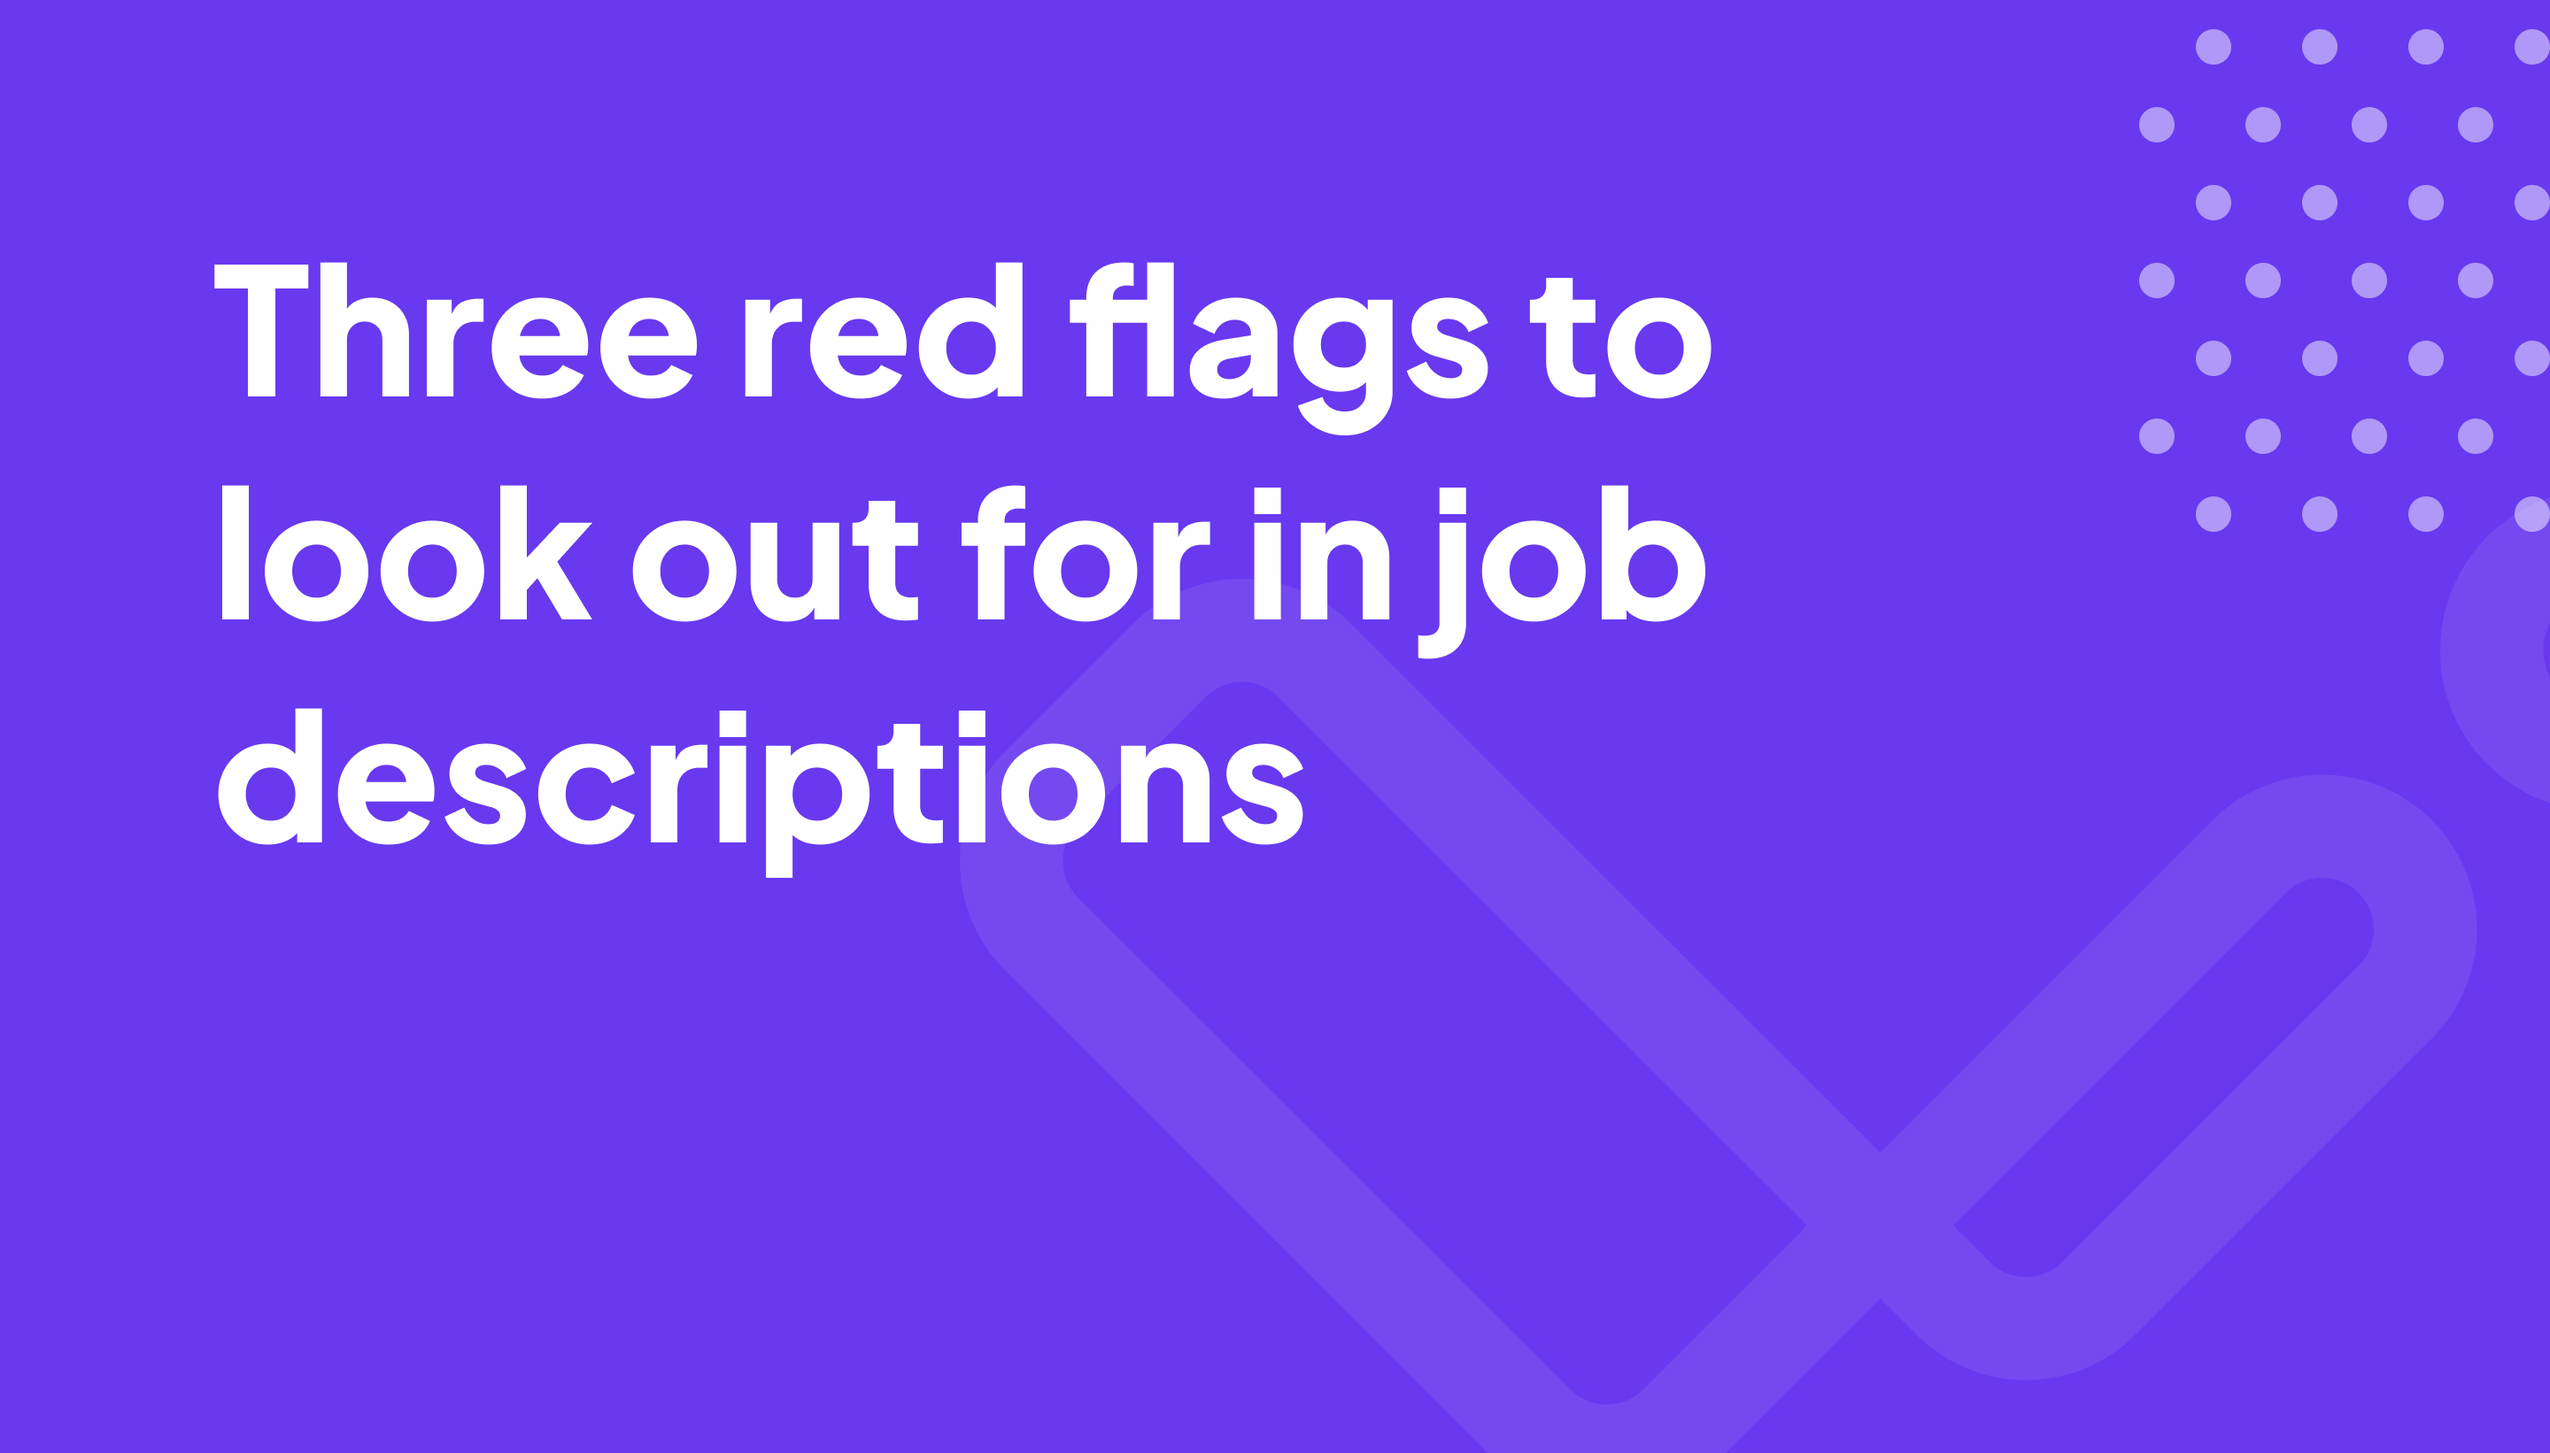
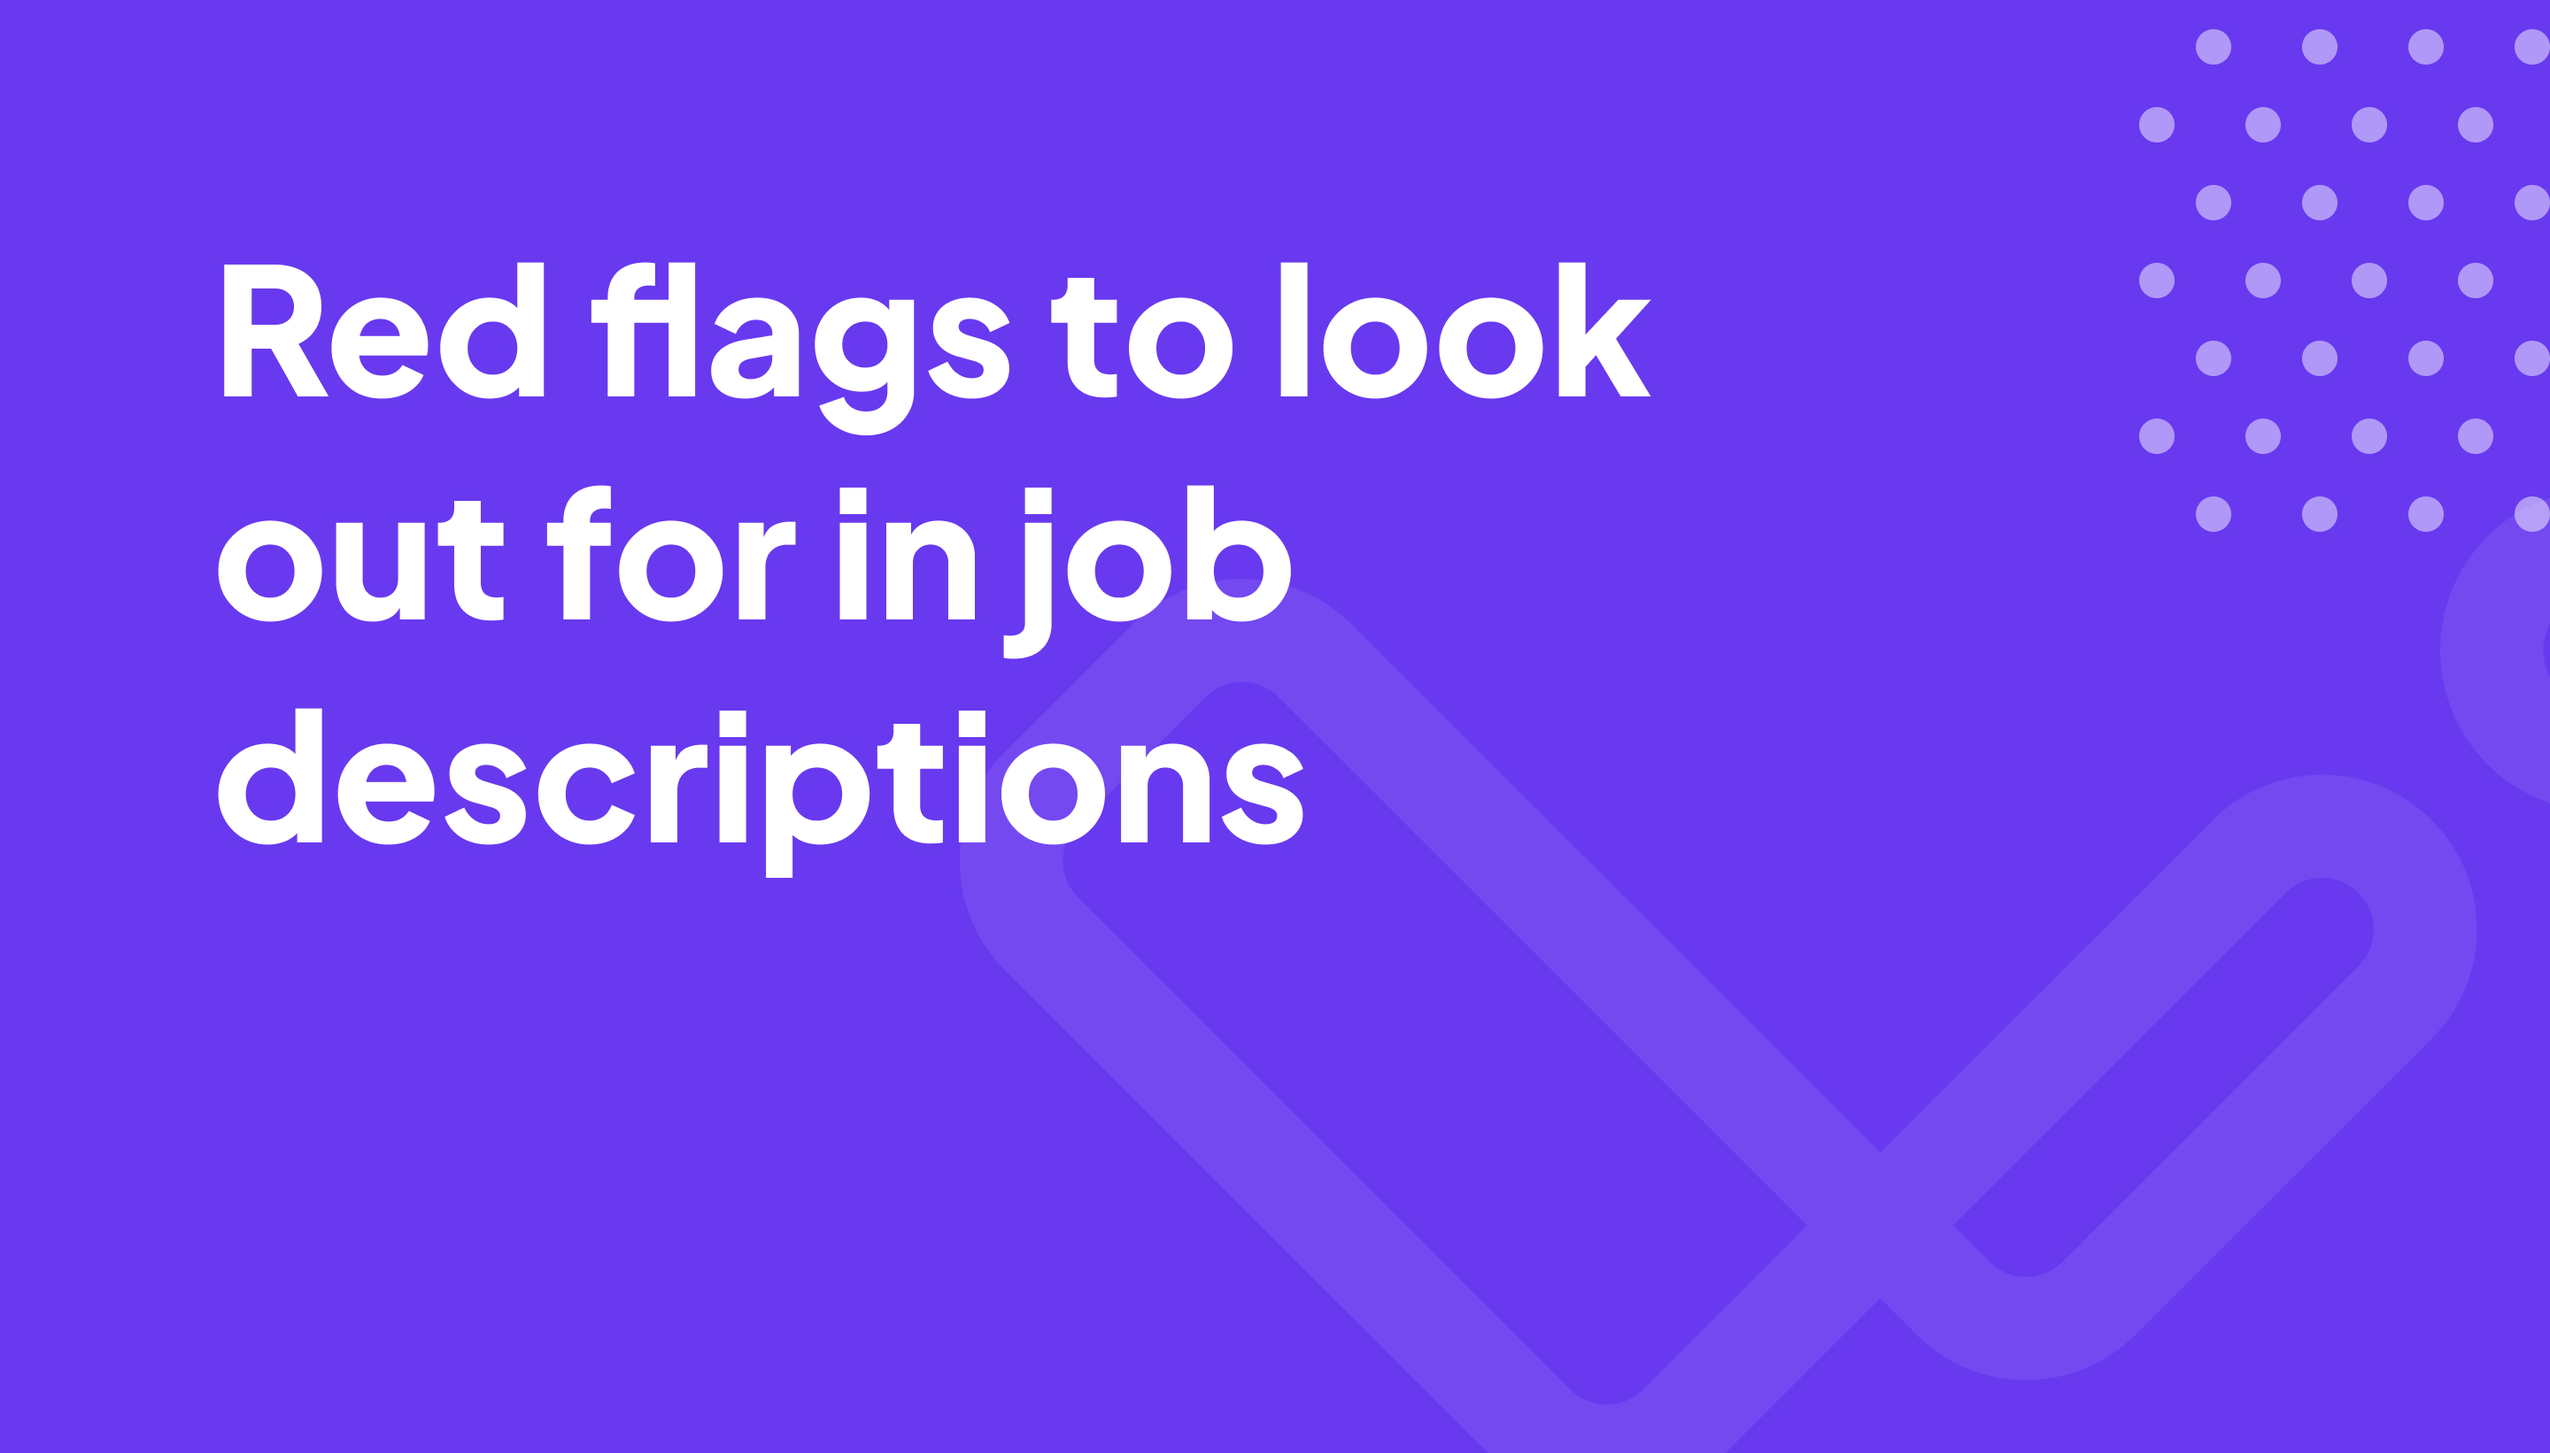
edit name of the red flags post

Changed region(s): [[0.0625, 0.1553, 0.6875, 0.3106], [0.0625, 0.3106, 0.6875, 0.4659]]

diff --git a/pages/blog/red-flags-in-job-descriptions.js b/pages/blog/red-flags-in-job-descriptions.js
@@ -20,9 +20,9 @@ const RedFlagsInJobDescriptions = () => {
   return (
     <div>
       <Post 
-        title="Three red flags to look out for in job descriptions"
+        title="Four red flags to look out for in job descriptions"
         image='/images/blog/red-flags-in-job-descriptions/red-flags-in-job-descriptions.jpg'
-        imageAlt="Three red flags to look out for in job descriptions"
+        imageAlt="Four red flags to look out for in job descriptions"
         readingDuration="2"
         hideFooter
         description="You probably know about some of the typical red flags in job descriptions; things like describing themselves as a family or not having the salary on the job description are recognisable enough to make you run for the hills."

diff --git a/pages/blog/index.js b/pages/blog/index.js
@@ -36,7 +36,7 @@ const Blog = () => {
         <div className="d-flex flex-column" style={{gap: '24px'}}>
           <PostCard 
             image="/images/blog/red-flags-in-job-descriptions/red-flags-in-job-descriptions.jpg"
-            title="Three red flags to look out for in job descriptions"
+            title="Four red flags to look out for in job descriptions"
             duration="2"
             bodyPreview="You probably know about some of the typical red flags in job descriptions; things like describing themselves as a family or not..."
             postUrl="/blog/red-flags-in-job-descriptions"
